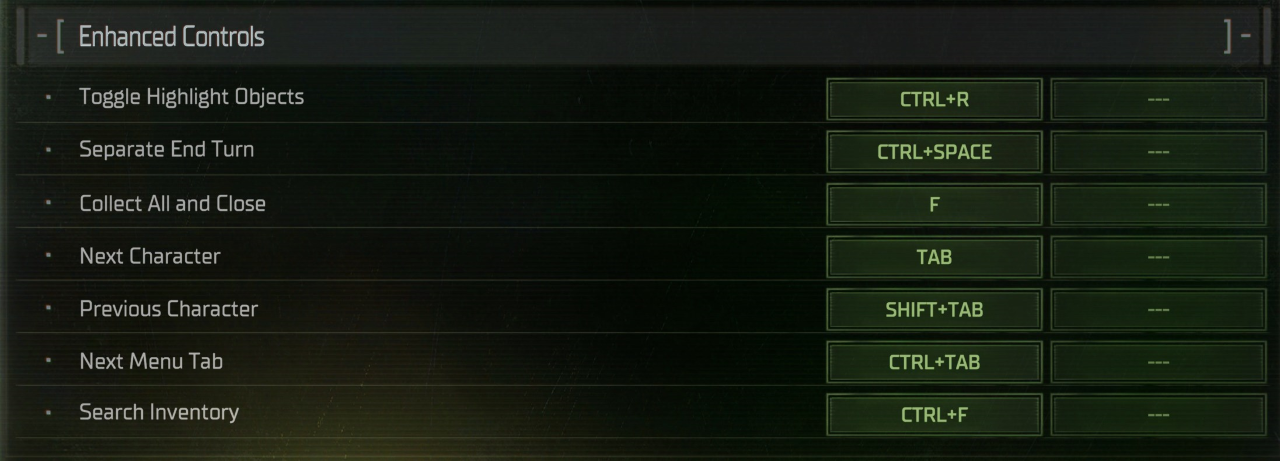
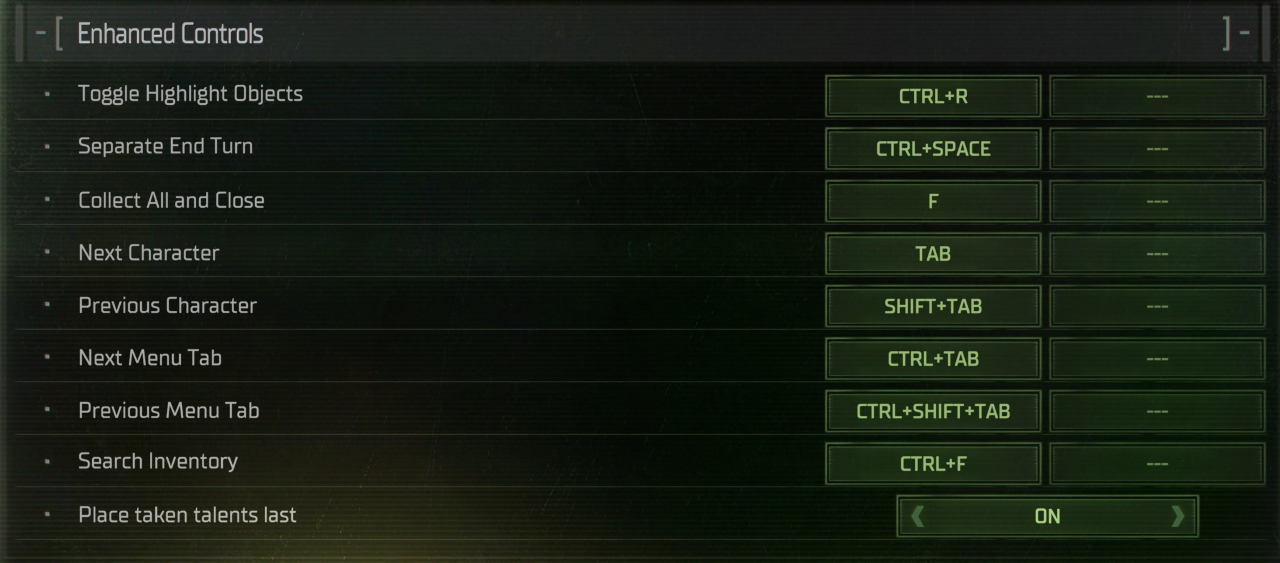
release 1.3.0
add 'Place taken talents last' setting

diff --git a/EnhancedControls/Tweaks/TakenFeaturesLast.cs b/EnhancedControls/Tweaks/TakenFeaturesLast.cs
@@ -1,0 +1,59 @@
+using HarmonyLib;
+using Kingmaker.UI.Common;
+using Kingmaker.UI.MVVM.VM.ServiceWindows.CharacterInfo.Sections.Careers.RankEntry;
+using Kingmaker.UI.MVVM.VM.ServiceWindows.CharacterInfo.Sections.Careers.RankEntry.Feature;
+using Owlcat.Runtime.UI.MVVM;
+using System.Collections.Generic;
+using System.Linq;
+
+namespace EnhancedControls.Tweaks;
+
+public class TakenFeaturesLast
+{
+    public static List<VirtualListElementVMBase> SetOrderedByList(RankEntrySelectionVM vm, FeaturesFilter.FeatureFilterType? filter)
+    {
+        return vm.m_ShowGroupList
+            .SelectMany((RankEntryFeatureGroupVM gr) => gr.GetFiltered(filter))
+            .OrderBy(x =>
+            {
+                if (x is RankEntrySelectionFeatureVM featureVm)
+                {
+                    if (featureVm.UnitProgressionVM.Unit.Value.Progression.Features.GetRank(featureVm.Feature) >= featureVm.SelectionItem.MaxRank)
+                    {
+                        return 1;
+                    }
+                }
+                return 0;
+            })
+            .ToList();
+    }
+
+    [HarmonyPatch]
+    internal class Patches
+    {
+        /// <summary>
+        /// Removes normal setting of FilteredGroupList
+        /// and replaces it with method above that sorts output by 
+        /// whether feature is already taken to the max
+        /// 
+        /// This results in UI placing already taken features at the bottom
+        /// </summary>
+        [HarmonyPatch(typeof(RankEntrySelectionVM), nameof(RankEntrySelectionVM.HandleFilterChange))]
+        [HarmonyTranspiler]
+        private static IEnumerable<CodeInstruction> RemoveEndTurnFromPauseButton(IEnumerable<CodeInstruction> instructions)
+        {
+            var newInstructions = new List<CodeInstruction>(instructions);
+            var loadsShowGroupList = newInstructions.FindLastIndex(x => x.LoadsField(AccessTools.Field(typeof(RankEntrySelectionVM), nameof(RankEntrySelectionVM.m_ShowGroupList))));
+            var storesFilteredGroupList = newInstructions.FindIndex(x => x.StoresField(AccessTools.Field(typeof(RankEntrySelectionVM), nameof(RankEntrySelectionVM.FilteredGroupList))));
+            if (loadsShowGroupList != -1 && storesFilteredGroupList != -1 && loadsShowGroupList < storesFilteredGroupList)
+            {
+                newInstructions.RemoveRange(loadsShowGroupList, storesFilteredGroupList - loadsShowGroupList);
+                var call = CodeInstruction.Call(typeof(TakenFeaturesLast), nameof(TakenFeaturesLast.SetOrderedByList));
+                newInstructions.Insert(loadsShowGroupList, call);
+                newInstructions.Insert(loadsShowGroupList, new CodeInstruction(System.Reflection.Emit.OpCodes.Ldarg_1));
+                return newInstructions;
+            }
+            return instructions;
+        }
+    }
+}

diff --git a/EnhancedControls/KeybindingPatchManager.cs b/EnhancedControls/KeybindingPatchManager.cs
@@ -1,4 +1,5 @@
 using EnhancedControls.KeyboardBindings;
+using EnhancedControls.Tweaks;
 using EnhancedControls.UI;
 using Kingmaker.Settings.Entities;
 using System;
@@ -85,6 +86,15 @@ internal static class KeybindingPatchManager
                 Main.HarmonyInstance.CreateClassProcessor(typeof(InventorySearchField.Patches)).Patch();
             });
         }
+
+
+        {
+            var takenTalentLast = settings.TakenFeaturesLast.GetValue();
+            TryPatch(takenTalentLast, "TakenFeaturesLast", () =>
+            {
+                Main.HarmonyInstance.CreateClassProcessor(typeof(TakenFeaturesLast.Patches)).Patch();
+            });
+        }
     }
 
     private static void TryRegister(KeyBindingData binding, string name, Action action)
@@ -104,6 +114,26 @@ internal static class KeybindingPatchManager
         else
         {
             Main.log.Log($"{name} unbound, registration skipped");
+        }
+    }
+
+    private static void TryPatch(bool value, string name, Action action)
+    {
+        Main.log.Log($"{name} value: {value}");
+        if (value)
+        {
+            try
+            {
+                action();
+            }
+            catch (Exception ex)
+            {
+                Main.log.Error($"{name} patch exception: {ex.Message}");
+            }
+        }
+        else
+        {
+            Main.log.Log($"{name} at default value, patch not applied");
         }
     }
 }

diff --git a/EnhancedControls/UI/InGameSettingsAdder.cs b/EnhancedControls/UI/InGameSettingsAdder.cs
@@ -58,7 +58,11 @@ public class ModSettings
         "Activates search input field when you're in inventory menu",
         "%F;;World;false");
 
-
+    public CustomToggleSetting TakenFeaturesLast = new(
+        "takenfeatureslast",
+        "Place taken talents last",
+        "Places already taken talents/abilities/etc at the bottom of selection list",
+        true);
 
 
     private bool Initialized = false;
@@ -76,6 +80,7 @@ public class ModSettings
         PrevTab.BuildUIAndLink();
         NextCharacter.BuildUIAndLink();
         PrevCharacter.BuildUIAndLink();
+        TakenFeaturesLast.BuildUIAndLink();
     }
 
     private static readonly ModSettings instance = new();
@@ -107,7 +112,8 @@ public static class SettingsUIPatches
                 ModSettings.Instance.PrevCharacter.UiSettingEntity,
                 ModSettings.Instance.NextTab.UiSettingEntity,
                 ModSettings.Instance.PrevTab.UiSettingEntity,
-                ModSettings.Instance.InventorySearch.UiSettingEntity
+                ModSettings.Instance.InventorySearch.UiSettingEntity,
+                ModSettings.Instance.TakenFeaturesLast.UiSettingEntity
                 ));
 
         KeybindingPatchManager.Run();

diff --git a/EnhancedControls/UI/CustomToggleSetting.cs b/EnhancedControls/UI/CustomToggleSetting.cs
@@ -1,0 +1,31 @@
+using Kingmaker.Settings;
+using Kingmaker.Settings.Entities;
+using Kingmaker.UI.Models.SettingsUI.SettingAssets;
+
+namespace EnhancedControls.UI;
+
+public class CustomToggleSetting
+{
+    public readonly string Key;
+    public readonly string Title;
+    public readonly string Tooltip;
+    public readonly SettingsEntityBool SettingEntity;
+    public UISettingsEntityBool UiSettingEntity { get; private set; }
+
+    public CustomToggleSetting(string key, string title, string tooltip, bool defaultValue)
+    {
+        Key = key;
+        Title = title;
+        Tooltip = tooltip + "\r\n\r\nALL SETTING CHANGES REQUIRE RESTART";
+        SettingEntity = new(SettingsController.Instance, $"{ModSettings.PREFIX}.newcontrols.{Key}", defaultValue, false, true);
+    }
+
+    public void BuildUIAndLink()
+    {
+        UiSettingEntity = OwlcatUITools.MakeToggle($"{ModSettings.PREFIX}.newcontrols.ui.{Key}", Title, Tooltip);
+        UiSettingEntity.Setting = SettingEntity;
+        UiSettingEntity.LinkSetting(SettingEntity);
+    }
+
+    public bool GetValue() => SettingEntity.GetValue();
+}
